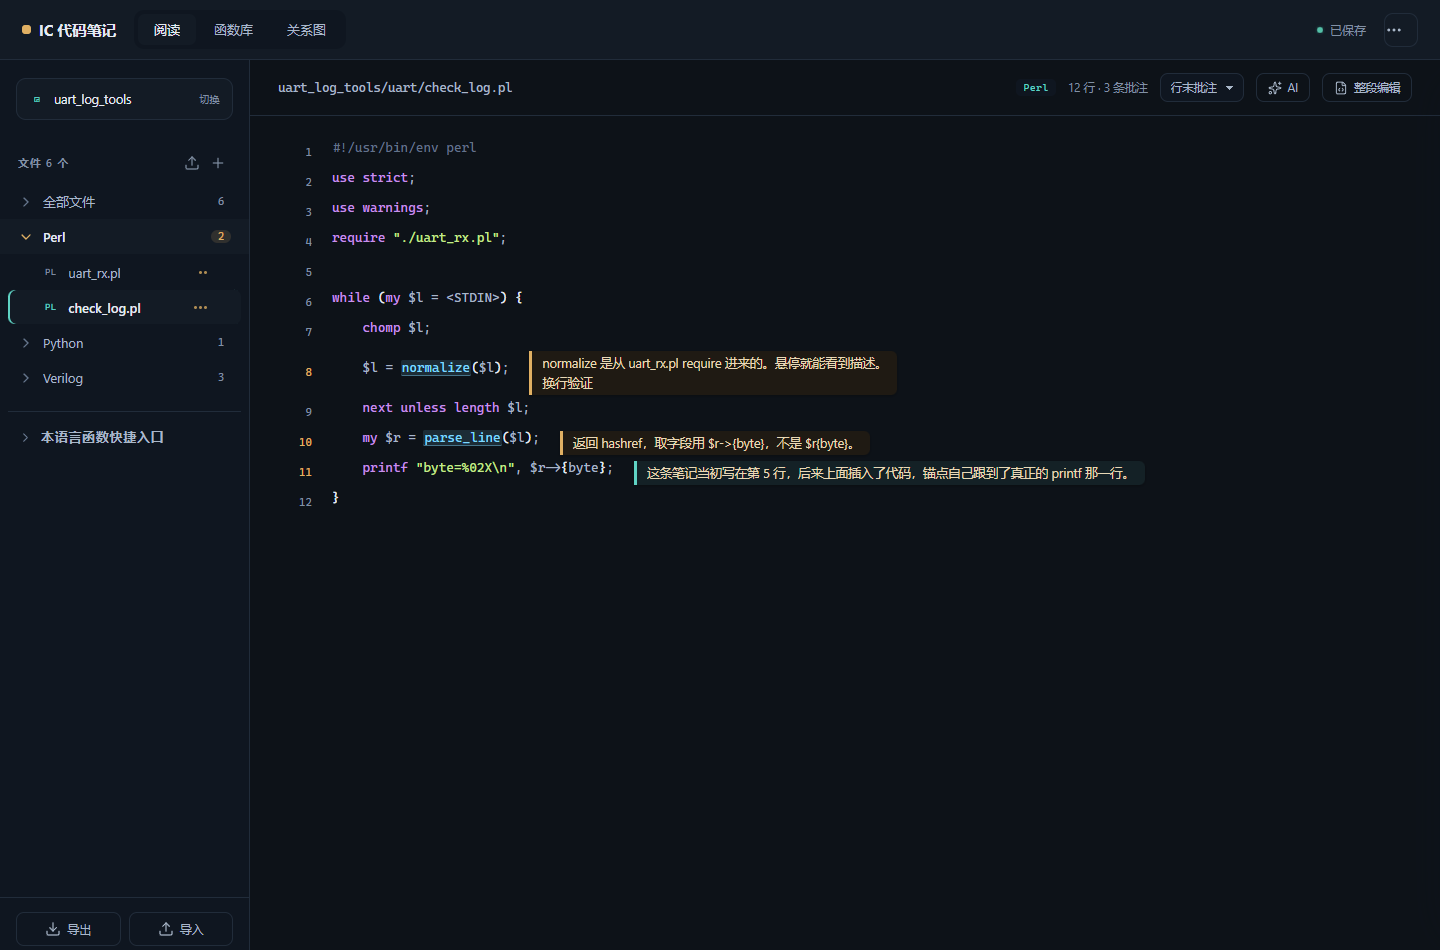
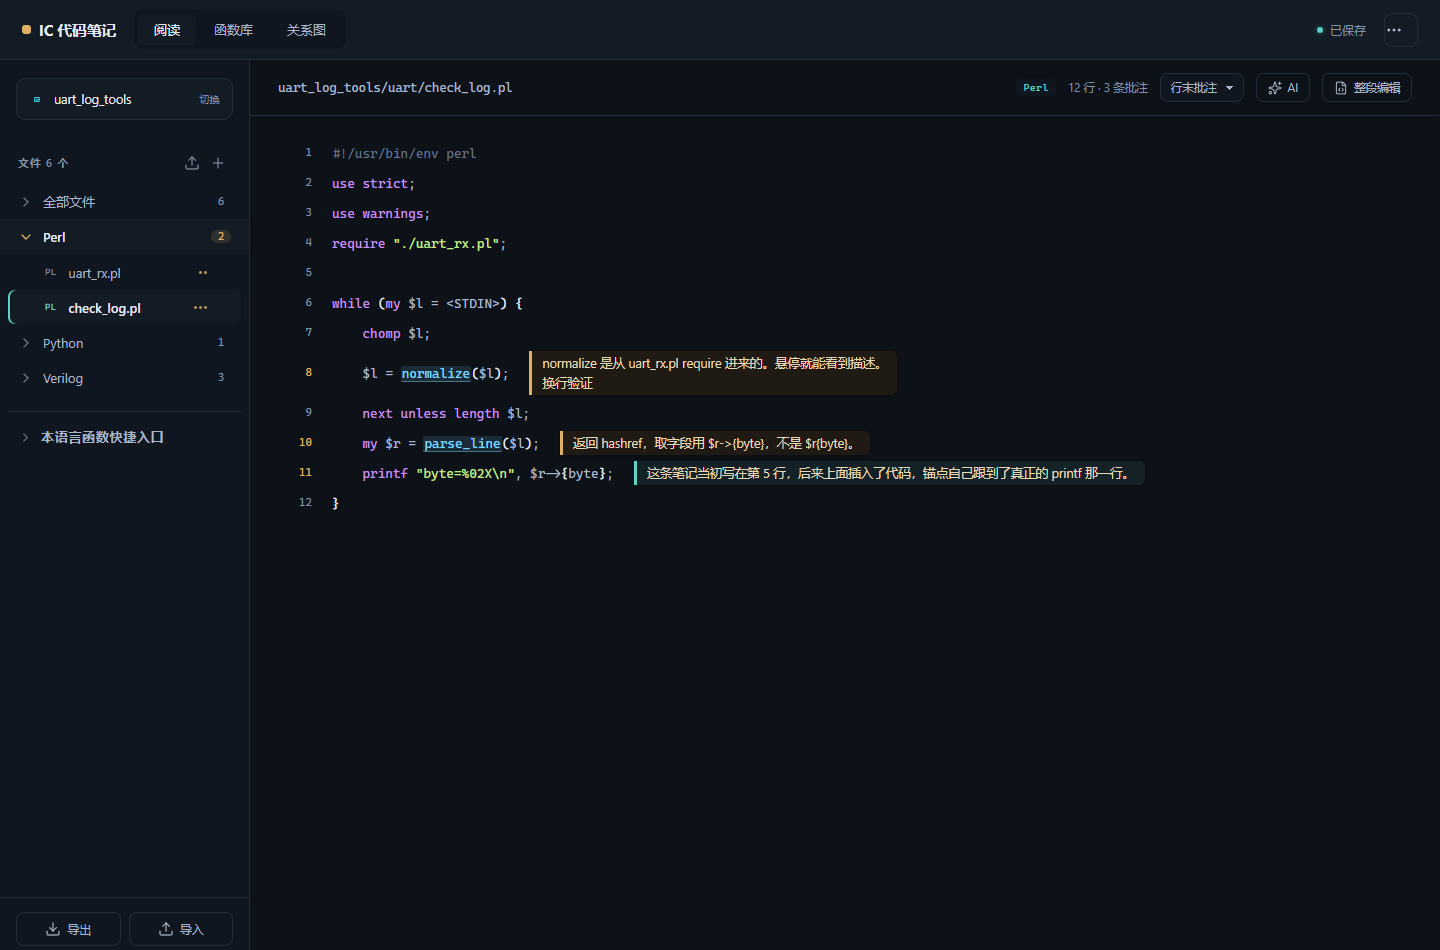
Vertically centre code text inside the 30px row

Changed region(s): [[0.2188, 0.3053, 0.4375, 0.5189], [0.2188, 0.1526, 0.3438, 0.2747]]

diff --git a/index.html b/index.html
@@ -353,9 +353,9 @@
     .splitter{left:calc(100% - var(--notew,384px) - 21px)}
   }
 </style>
-<link rel="stylesheet" href="ui-refresh.css?v=20261105n">
-<link rel="stylesheet" href="presets.css?v=20261105n">
-<link rel="stylesheet" href="ai.css?v=20261105n">
+<link rel="stylesheet" href="ui-refresh.css?v=20261105p">
+<link rel="stylesheet" href="presets.css?v=20261105p">
+<link rel="stylesheet" href="ai.css?v=20261105p">
 </head>
 <body>
 <svg xmlns="http://www.w3.org/2000/svg" style="display:none" aria-hidden="true"><defs><symbol id="i-sparkles" viewBox="0 0 24 24">
@@ -537,7 +537,7 @@
     <div class="sep"></div>
     <button role="menuitem" id="btnReset" class="dang"><svg class="ic"><use href="#i-rotate-ccw"/></svg>重置数据</button>
     <div class="sep"></div>
-    <div class="ver" id="buildVer">构建 20261105-0700</div>
+    <div class="ver" id="buildVer">构建 20261105-0810</div>
   </div>
 </div>
 
@@ -633,7 +633,7 @@
 <div id="mask"><div class="dlg" id="dlgBody"></div></div>
 <div id="toast"></div>
 
-<script src="indent.js?v=20261105n"></script>
+<script src="indent.js?v=20261105p"></script>
 <script>
 /* ============================================================
    数据
@@ -2702,11 +2702,11 @@ document.addEventListener('keydown',e=>{
 /* init */
 renderProj(); renderNav(); renderCode(); renderLib();
 </script>
-<script src="ui-refresh.js?v=20261105n"></script>
-<script src="ai.js?v=20261105n"></script>
-<script src="rowselection.js?v=20261105n"></script>
-<script src="multiselect.js?v=20261105n"></script>
-<script src="textsel.js?v=20261105n"></script>
-<script src="graph.js?v=20261105n"></script>
+<script src="ui-refresh.js?v=20261105p"></script>
+<script src="ai.js?v=20261105p"></script>
+<script src="rowselection.js?v=20261105p"></script>
+<script src="multiselect.js?v=20261105p"></script>
+<script src="textsel.js?v=20261105p"></script>
+<script src="graph.js?v=20261105p"></script>
 </body>
 </html>

diff --git a/ai.css b/ai.css
@@ -300,3 +300,7 @@ html[data-note-mode="side"] .nb:has(.achip){padding-right:140px}
 .legend .ln{display:inline-block;width:16px;height:0;border-top:1.5px solid #b9c4d4;margin-right:5px;vertical-align:3px}
 .legend .ln.miss{border-top-style:dashed;border-color:#c06a80}
 .legend .sep{width:1px;height:12px;background:var(--edge)}
+
+/* 代码行的文字要在 30px 行高里真正垂直居中 */
+.line .cl{align-items:center}
+.line .cl .num,.line .cl .src{align-self:center}
